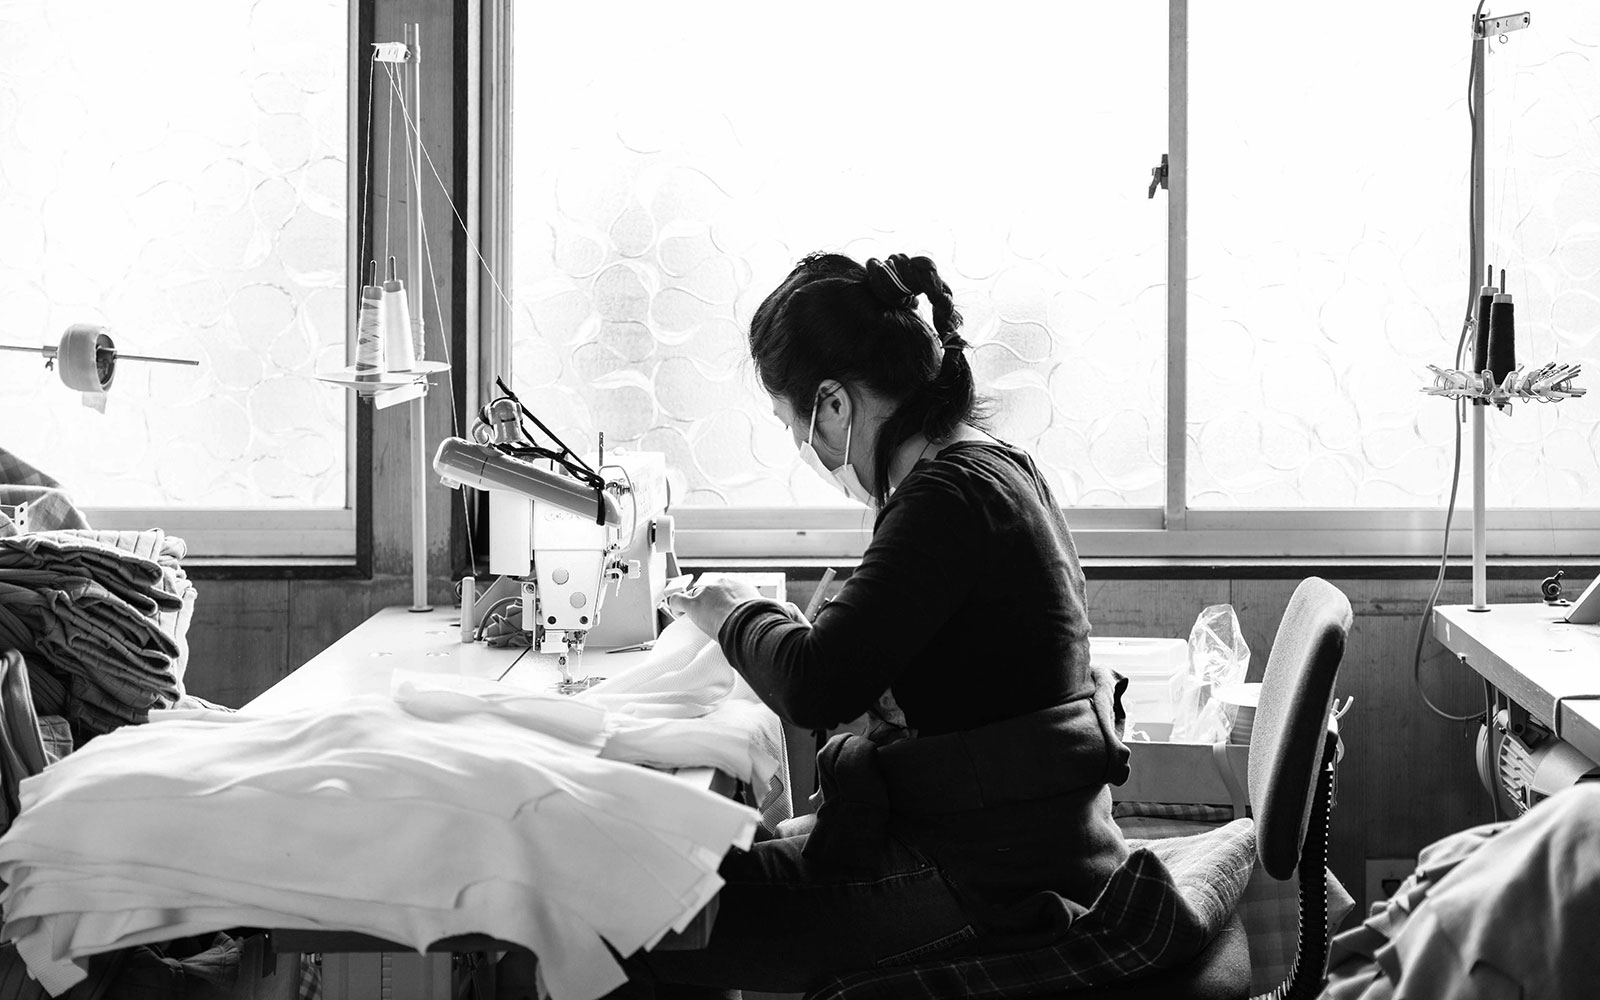
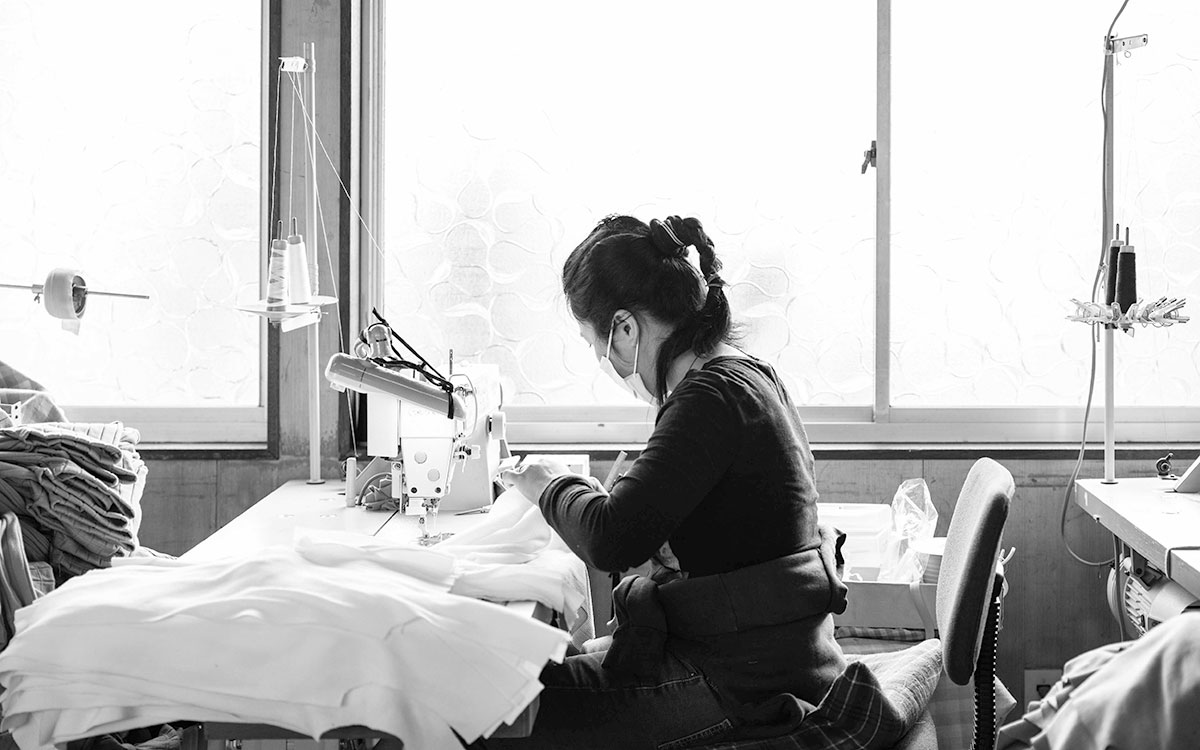
no message

diff --git a/scss/inc/_page.scss b/scss/inc/_page.scss
@@ -40,7 +40,7 @@ __top
         background-image: url(../images/pTop_intro.jpg);
         background-size: auto 100%;
         background-repeat: no-repeat;
-        background-position: left bottom;
+        background-position: left top;
         z-index: -1;
         width: 65%;
         height: 100%;
@@ -58,7 +58,7 @@ __top
     line-height: 1.2;
     z-index: 2;
     font-weight: bold;
-    padding: 100px 0 70px 0;
+    padding: 70px 0 70px 0;
     span {
         letter-spacing: 0em;
     }
@@ -86,7 +86,7 @@ __top
     width: 30%;
     text-align: justify;
     line-height: 1.6;
-    padding-bottom: 100px;
+    padding-bottom: 120px;
     p {
         margin-bottom: .5em;
         &:last-child {

diff --git a/assets/css/style.css b/assets/css/style.css
@@ -796,7 +796,7 @@ __top
   background-image: url(../images/pTop_intro.jpg);
   background-size: auto 100%;
   background-repeat: no-repeat;
-  background-position: left bottom;
+  background-position: left top;
   z-index: -1;
   width: 65%;
   height: 100%;
@@ -813,7 +813,7 @@ __top
   line-height: 1.2;
   z-index: 2;
   font-weight: bold;
-  padding: 100px 0 70px 0;
+  padding: 70px 0 70px 0;
 }
 
 .p_top__copy span {
@@ -840,7 +840,7 @@ __top
   width: 30%;
   text-align: justify;
   line-height: 1.6;
-  padding-bottom: 100px;
+  padding-bottom: 120px;
 }
 
 .p_top__read p {
